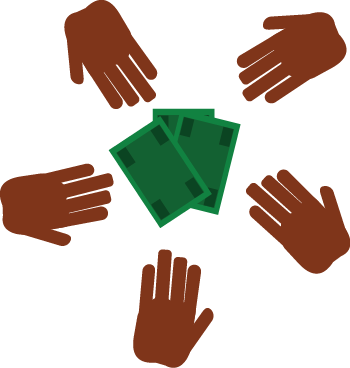
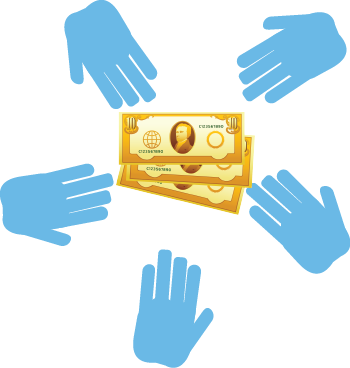
mise à jour à noel 2019

diff --git a/src/app/creation/creation.page.html b/src/app/creation/creation.page.html
@@ -79,6 +79,48 @@
           </ion-button>
         </div>
       </div>
+      <div class="section" style="display: grid;">
+        <div class="col-suc">
+          <ion-item lines="full" class="myinput">
+            <ion-label>
+              <ion-icon name="checkmark-circle-outline" color="succes"></ion-icon> <span>Bravo. Vous avez crée un paris !</span>
+            </ion-label>
+          </ion-item>
+          <ion-item lines="full" class="myinput" style="display: grid;">
+            <ion-label style="display: flex;">
+              <i class="fas fa-exclamation-circle" style="font-size: 41px;color: #0e0d0d;"></i> 
+              <div class="div-warn">
+                <h2>Attention !</h2>
+                <p> Si vous crée un paris à des fins abusives, votre compte sera definitivement supprimé de l'application. Lisez notre charte d'utilisation afin de vous informer des conditions d'utilisation de Cash app  </p>
+                <ion-button>Lire la charte</ion-button>
+              </div>
+            </ion-label>
+          </ion-item>
+        </div>
+        <!-- <div style="padding-top: 7%;">
+          <ion-item lines="none" class="myinput">
+            <ion-label class="succ">
+              <i class="fas fa-user-plus"></i>
+              <span> inviter les gens à relever votre paris </span>
+            </ion-label>
+          </ion-item>
+          <ion-item lines="none" class="myinput">
+            <ion-label>
+              Item
+            </ion-label>
+          </ion-item>
+          <ion-item lines="none" class="myinput">
+            <ion-label>
+              Item
+            </ion-label>
+          </ion-item>
+          <ion-item lines="none" class="myinput">
+            <ion-label>
+              Item
+            </ion-label>
+          </ion-item> 
+        </div> -->
+      </div>
   </form>
 	</div>
 </ion-content>

diff --git a/src/app/creation/creation.page.ts b/src/app/creation/creation.page.ts
@@ -37,7 +37,8 @@ export class CreationPage implements OnInit {
       direction: 'horizontal',
       navigation: false,
       scrollingSpeed: 300,
-      sectionsColor: ['#f2f2f2', '#f2f2f2', '#f2f2f2', '#f2f2f2', '#f2f2f2']
+      keyboardScrolling: false,
+      sectionsColor: ['#f2f2f2', '#f2f2f2', '#f2f2f2', '#f2f2f2', '#f2f2f2', '#f2f2f2', '#f2f2f2']
     });
     $.fn.pagepiling.setAllowScrolling(false);
   }
@@ -107,7 +108,7 @@ export class CreationPage implements OnInit {
     if(this.description.length <= 0 || this.description.length <= 3 || this.description == undefined) {
       toast.present();
           } else {
-            await alert.present();
+            $.fn.pagepiling.moveTo(6);
       }
   }
   async next1() {

diff --git a/src/app/creation/creation.page.scss b/src/app/creation/creation.page.scss
@@ -14,3 +14,17 @@ ion-input {
 .alert-message2 {
     font-size: 10px !important;
 }
+.succ ion-icon {
+    --color: lightgreen
+}
+.div-warn {
+    display: grid;
+    white-space: initial;
+    padding-left: 10%;
+}
+.div-warn p {
+    font-size: 12px;
+    line-height: 160%;
+    text-align: justify;
+    white-space: pre-line;
+}

diff --git a/src/app/home/home.page.html b/src/app/home/home.page.html
@@ -7,7 +7,7 @@
       <h1>CREE TON PARI</h1>
     </ion-slide>
     <ion-slide>
-      <img class="image2" src="assets/images/image2.png">
+      <img class="image2" src="assets/images/Money.png">
       <h1>FIXE LE PRIX DU GAGNANT</h1>
     </ion-slide>
     <ion-slide>
